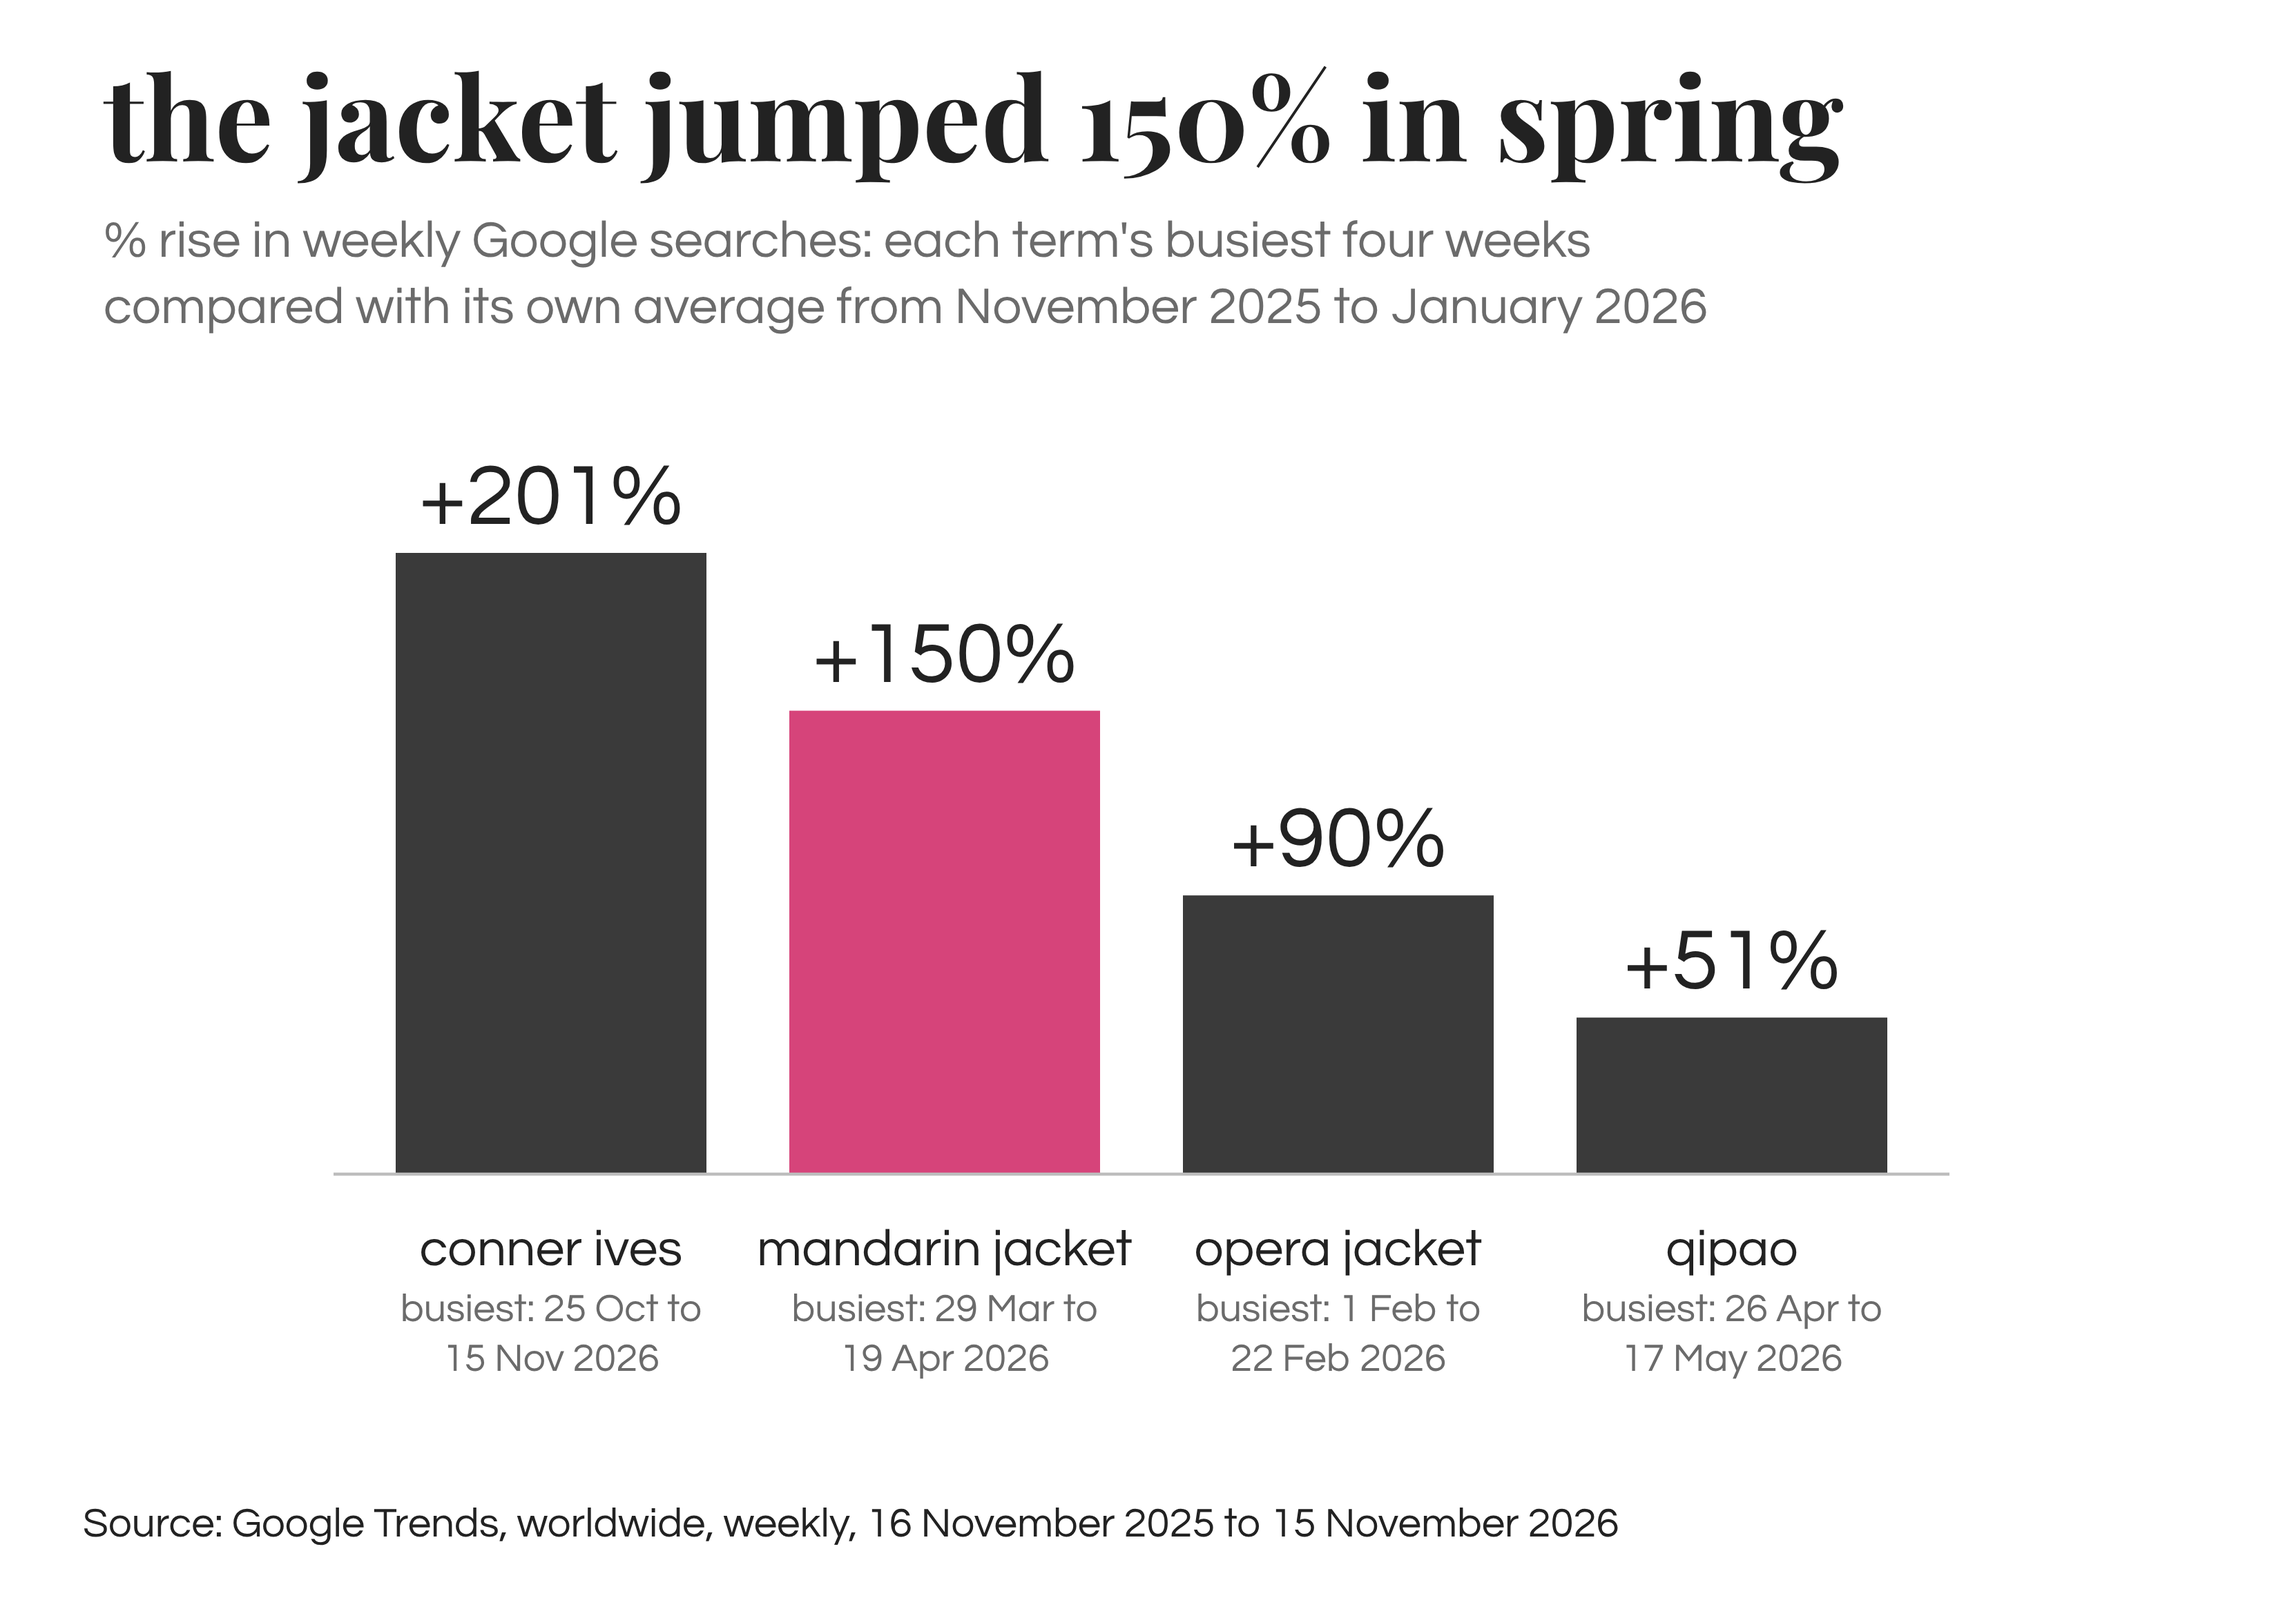
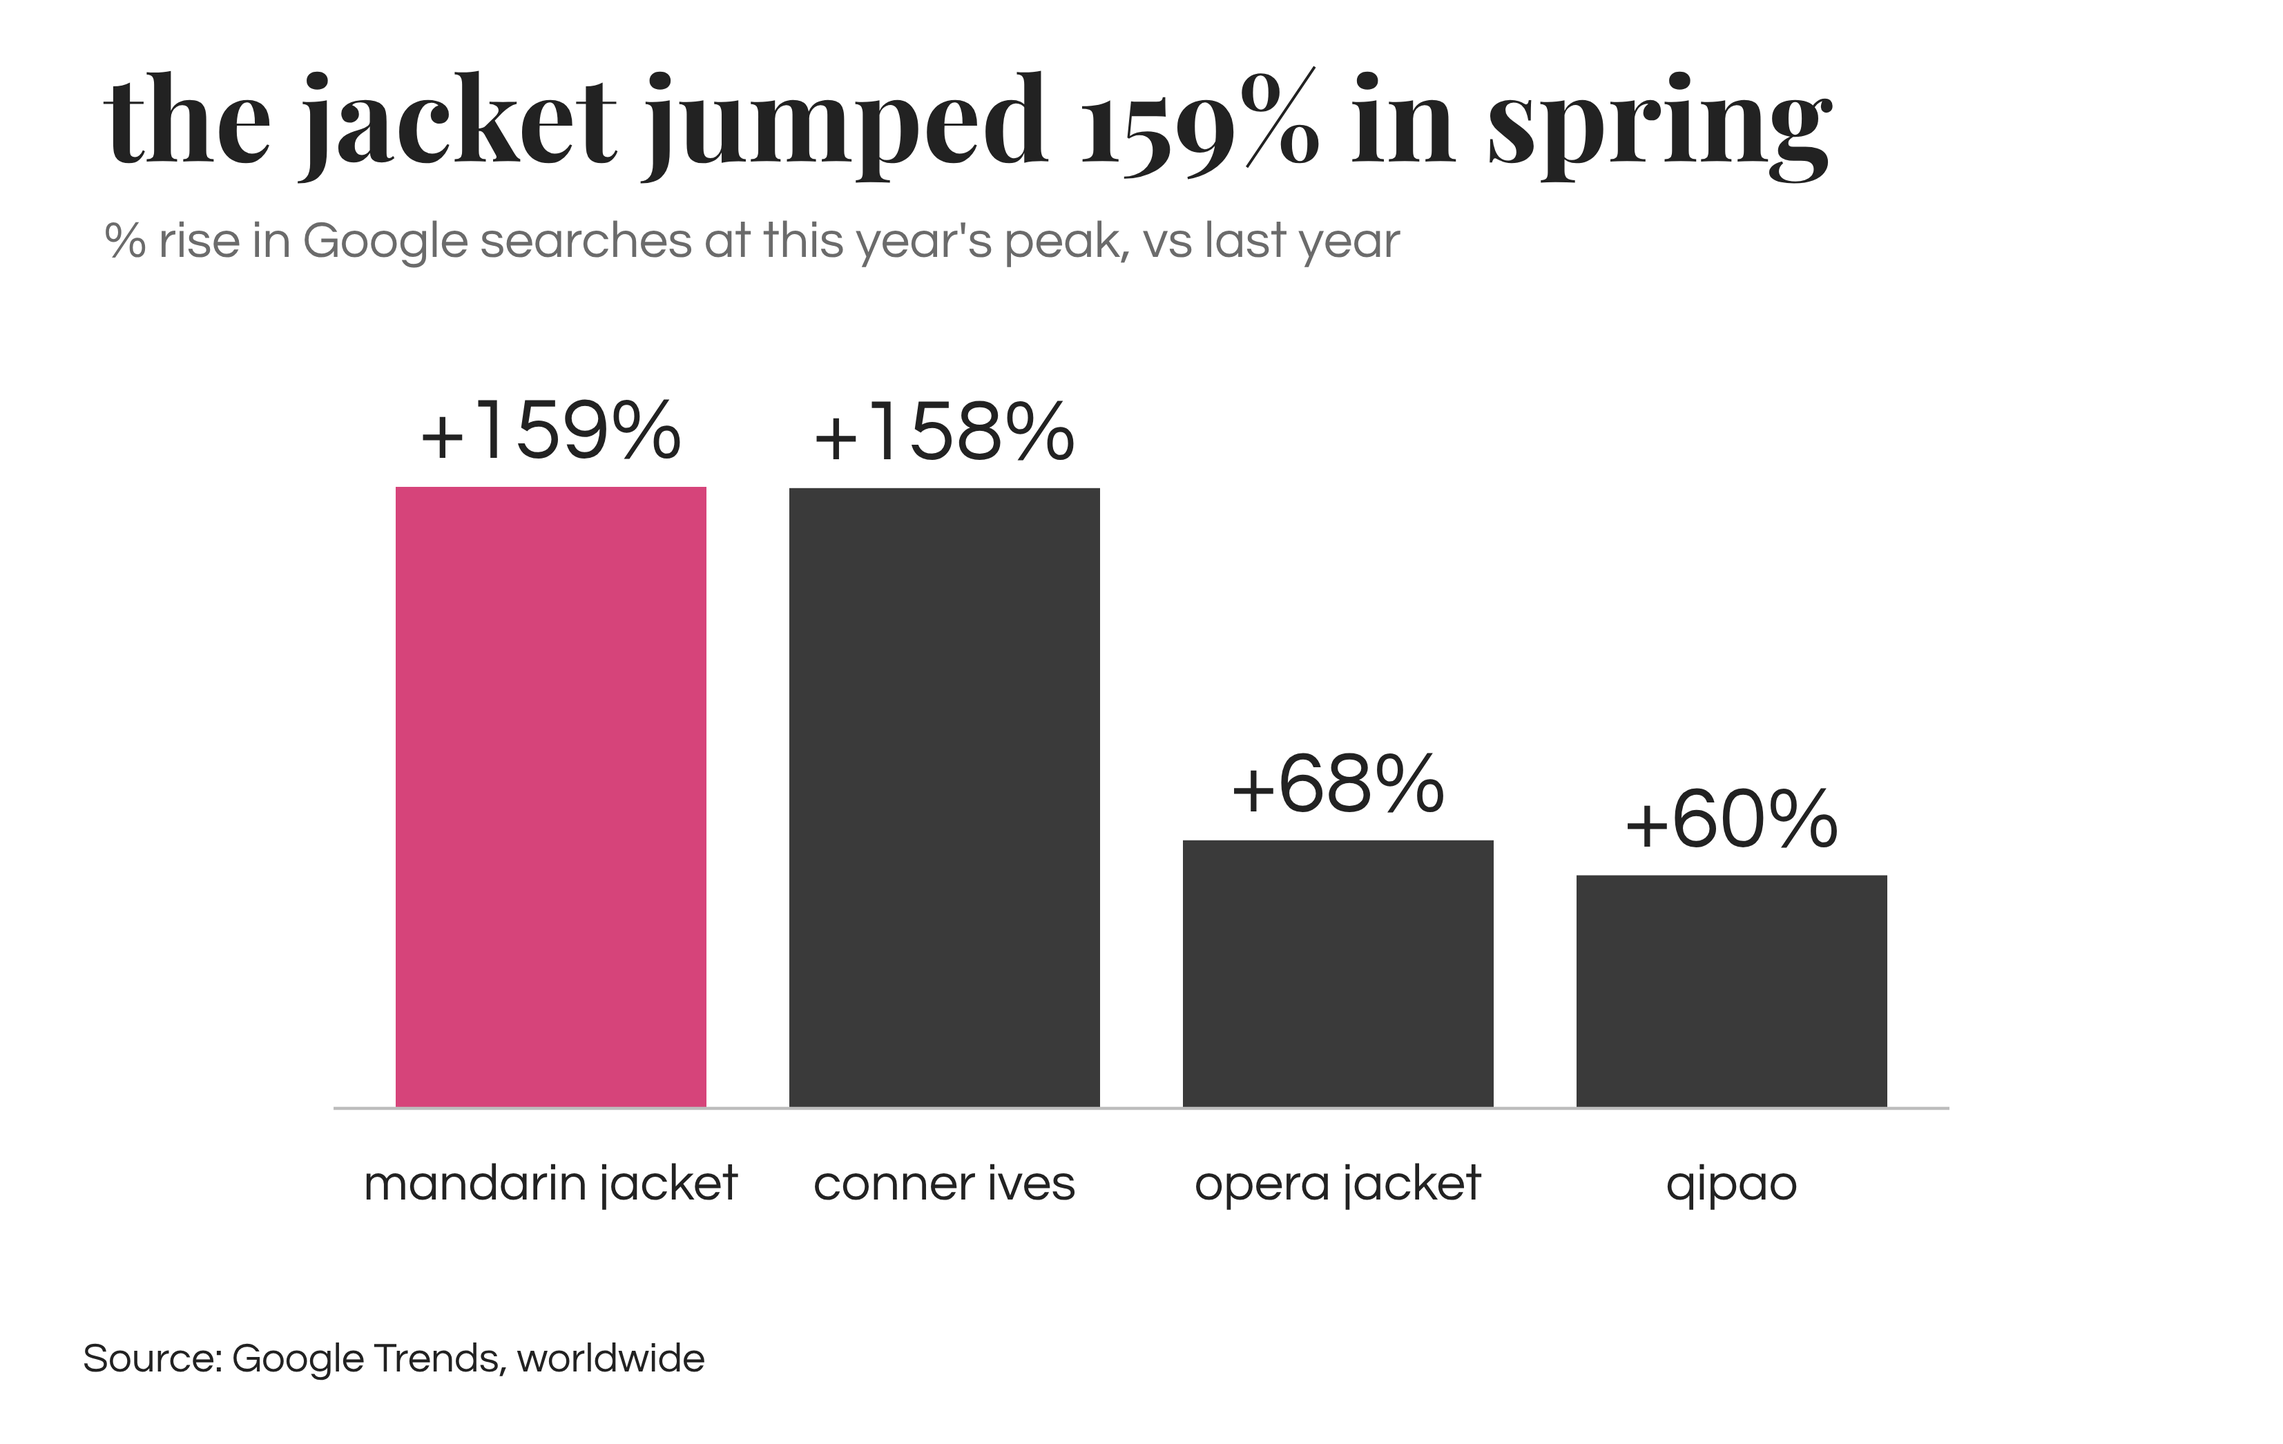
Simplify search bar charts and compare against last year
Claude-Session: https://claude.ai/code/session_01N7aeZbadov81bhy2nkWngq

diff --git a/drafts/chinese-jacket-charts/build_charts.py b/drafts/chinese-jacket-charts/build_charts.py
@@ -16,7 +16,7 @@ PINK, DARK, INK, MUTED = '#D6447A', '#3A3A3A', '#222222', '#6B6B6B'
 SERIF = "'Playfair Display', Georgia, serif"
 SANS = "'Century Gothic', 'Questrial', 'Avenir', sans-serif"
 FONTS = '<link href="https://fonts.googleapis.com/css2?family=Playfair+Display:wght@700&family=Questrial&display=swap" rel="stylesheet">'
-SRC = 'Source: Google Trends, worldwide, weekly, 16 November 2025 to 15 November 2026'
+SRC = 'Source: Google Trends, worldwide'
 
 def load(n):
     r = list(csv.reader(open(os.path.join(HERE, "data", n + ".csv"))))
@@ -29,11 +29,11 @@ def wrap(label, n=14):
         else: cur = (cur + ' ' + t).strip()
     lines.append(cur); return lines
 
-def bar_chart(name, title, subtitle, items, highlight=0, sub=None):
-    """items: [(label, value)], value may be negative. subtitle: list of lines (the unit, in plain words)."""
+def bar_chart(name, title, subtitle, items, highlight=0):
+    """items: [(label, value)], value may be negative. subtitle: one plain line saying what the % measures."""
     n = len(items); fmt = lambda v: f'{round(v):+d}%'
-    W = max(1000, 100 + n * 150, 110 + len(title) * 31, 110 + max(len(l) for l in subtitle) * 13)
-    top = 175 + (len(subtitle) - 1) * 32; plot_h, left, right = 360, 50, 50
+    W = max(1000, 100 + n * 150, 110 + len(title) * 31, 110 + len(subtitle) * 13)
+    top, plot_h, left, right = 175, 360, 50, 50
     slot = min((W - left - right) / n, 190); x0 = (W - slot * n) / 2; bw = min(150, slot * 0.84)
     vmax = max(0, max(v for _, v in items)); vmin = min(0, min(v for _, v in items))
     pos_room = 60 if vmax > 0 else 0; neg_room = 55 if vmin < 0 else 0
@@ -41,12 +41,10 @@ def bar_chart(name, title, subtitle, items, highlight=0, sub=None):
     base = top + pos_room + vmax * scale; bottom = top + plot_h
     wn = max(8, int(slot / 12.5)); vs = min(42, round(slot * 0.34))
     label_lines = max(len(wrap(l, wn)) for l, _ in items)
-    sub_lines = max(len(wrap(s, wn + 4)) for s in sub) if sub else 0
-    h = bottom + 46 + label_lines * 31 + sub_lines * 24 + 80
+    h = bottom + 46 + label_lines * 31 + 80
     p = [f'<svg xmlns="http://www.w3.org/2000/svg" viewBox="0 0 {W} {h}" width="{W}" height="{h}">', f'<rect width="{W}" height="{h}" fill="#FFFFFF"/>',
-         f'<text x="{left}" y="78" font-family="{SERIF}" font-weight="700" font-size="56" fill="{INK}">{html.escape(title)}</text>']
-    for j, l in enumerate(subtitle):
-        p.append(f'<text x="{left}" y="{124 + j * 32}" font-family="{SANS}" font-size="25" fill="{MUTED}">{html.escape(l)}</text>')
+         f'<text x="{left}" y="78" font-family="{SERIF}" font-weight="700" font-size="56" fill="{INK}">{html.escape(title)}</text>',
+         f'<text x="{left}" y="124" font-family="{SANS}" font-size="25" fill="{MUTED}">{html.escape(subtitle)}</text>']
     for i, (lab, v) in enumerate(items):
         cx = x0 + slot * (i + 0.5); bh = abs(v) * scale; col = PINK if i == highlight else DARK
         y = base - bh if v >= 0 else base
@@ -55,41 +53,34 @@ def bar_chart(name, title, subtitle, items, highlight=0, sub=None):
         p.append(f'<text x="{cx:.1f}" y="{vy:.1f}" text-anchor="middle" font-family="{SANS}" font-size="{vs}" fill="{INK}">{fmt(v)}</text>')
         for j, line in enumerate(wrap(lab, wn)):
             p.append(f'<text x="{cx:.1f}" y="{bottom+44+j*31}" text-anchor="middle" font-family="{SANS}" font-size="25" fill="{INK}">{html.escape(line)}</text>')
-        if sub:
-            for k, line in enumerate(wrap(sub[i], wn + 4)):
-                p.append(f'<text x="{cx:.1f}" y="{bottom+44+label_lines*31+k*24-4}" text-anchor="middle" font-family="{SANS}" font-size="19" fill="{MUTED}">{html.escape(line)}</text>')
     p.append(f'<line x1="{x0-10:.1f}" y1="{base:.1f}" x2="{x0+slot*n+10:.1f}" y2="{base:.1f}" stroke="#BDBDBD" stroke-width="1.5"/>')
     p.append(f'<text x="{left-10}" y="{h-30}" font-family="{SANS}" font-size="20" fill="{INK}">{html.escape(SRC)}</text></svg>')
     return name, "\n".join(p)
 
-def span(rows, i):
-    f = lambda d: datetime.datetime.strptime(d, "%Y-%m-%d")
-    a, b = f(rows[i][0]), f(rows[i + 3][0])
-    return f'{a.day} {a.strftime("%b")} to {b.day} {b.strftime("%b %Y")}'
-
+# How the percentages are built (kept off the charts, stated once in the article's methodology):
+#   late 2025 = average of the weeks from 16 Nov to 28 Dec 2025 (the part of the export that falls in 2025)
+#   peak      = each term's busiest four weeks in a row in 2026
+#   now       = the latest four weeks, 25 Oct to 15 Nov 2026
 TERMS = [("mandarin jacket", "mandarin_jacket"), ("opera jacket", "opera_jacket"), ("qipao", "qipao"), ("conner ives", "conner_ives"), ("chinamaxxing", "chinamaxxing")]
 S = {}
 for label, f in TERMS:
     rows = load(f); v = [x for _, x in rows]
-    winter = [x for d, x in rows if d < "2026-02-01"]            # Nov 2025 to Jan 2026
-    bi = max(range(len(v) - 3), key=lambda i: sum(v[i:i + 4]))    # busiest four weeks in a row
-    S[label] = dict(winter=sum(winter) / len(winter), best=sum(v[bi:bi + 4]) / 4, best_span=span(rows, bi), last=sum(v[-4:]) / 4)
+    y25 = [x for d, x in rows if d < "2026-01-01"]
+    bi = max(range(len(v) - 3), key=lambda i: sum(v[i:i + 4]))
+    S[label] = dict(y25=sum(y25) / len(y25), best=sum(v[bi:bi + 4]) / 4, last=sum(v[-4:]) / 4)
 pct = lambda a, b: (a / b - 1) * 100
-jump = sorted([(k, pct(s["best"], s["winter"])) for k, s in S.items() if s["winter"] > 0], key=lambda t: -t[1])
+jump = sorted([(k, pct(s["best"], s["y25"])) for k, s in S.items() if s["y25"] > 0], key=lambda t: -t[1])
 fall = sorted([(k, pct(s["last"], s["best"])) for k, s in S.items() if s["last"] < s["best"]], key=lambda t: t[1])
-now = sorted([(k, pct(s["last"], s["winter"])) for k, s in S.items() if s["winter"] > 0], key=lambda t: -t[1])
+now = sorted([(k, pct(s["last"], s["y25"])) for k, s in S.items() if s["y25"] > 0], key=lambda t: -t[1])
 for nm, d in (("jump", jump), ("fall", fall), ("now", now)): print(nm, [(k, round(x)) for k, x in d])
-idx = lambda d, k: [a for a, _ in d].index(k)
+idx = lambda d, k: [a for a, _ in d].index(k); val = lambda d, k: round(dict(d)[k])
 charts = [
- bar_chart("01-search-jump", "the jacket jumped 150% in spring",
-           ["% rise in weekly Google searches: each term's busiest four weeks", "compared with its own average from November 2025 to January 2026"],
-           jump, highlight=idx(jump, "mandarin jacket"), sub=["busiest: " + S[k]["best_span"] for k, _ in jump]),
- bar_chart("02-search-since-peak", "the meme has lost 85% of its searches",
-           ["% fall in weekly Google searches: the latest four weeks (25 Oct to 15 Nov 2026)", "compared with each term's own busiest four weeks"],
-           fall, highlight=idx(fall, "chinamaxxing"), sub=["busiest: " + S[k]["best_span"] for k, _ in fall]),
- bar_chart("03-search-now", "only conner ives is above last winter",
-           ["% change in weekly Google searches: the latest four weeks (25 Oct to 15 Nov 2026)", "compared with each term's own average from November 2025 to January 2026"],
-           now, highlight=idx(now, "conner ives")),
+ bar_chart("01-search-jump", f"the jacket jumped {val(jump, 'mandarin jacket')}% in spring",
+           "% rise in Google searches at this year's peak, vs last year", jump, highlight=idx(jump, "mandarin jacket")),
+ bar_chart("02-search-since-peak", f"the meme has lost {-val(fall, 'chinamaxxing')}% of its searches",
+           "% fall in Google searches since this year's peak", fall, highlight=idx(fall, "chinamaxxing")),
+ bar_chart("03-search-now", f"conner ives is up {val(now, 'conner ives')}% on last year",
+           "% change in Google searches, this year vs last year", now, highlight=idx(now, "conner ives")),
 ]
 def page(body, w):
     return (f'<!doctype html><html><head><meta charset="utf-8">{FONTS}<style>body{{margin:0;background:#fff}}'

diff --git a/drafts/asian-inspired-jacket-draft.md b/drafts/asian-inspired-jacket-draft.md
@@ -20,17 +20,17 @@ The year starts with Lunar New Year. Searches for "qipao" and "opera jacket" bot
 
 What is not usual is what happened next, which is Chinamaxxing. That is the TikTok name for adopting Chinese habits as a lifestyle, with people filming themselves wearing house slippers indoors, swapping iced drinks for warm water with goji berries and trying Tai Chi, usually with the catchphrase "You've met me at a very Chinese time in my life". As a search it did not exist until early February, and it went from zero to its peak in two weeks, by 22 February, before losing two thirds of that the week after.
 
-Then the jacket took over. Searches for "mandarin jacket" peaked in the week of 12 April, seven weeks after the meme, and stayed close to that level from late March to mid May, 150% above where they sat in the winter. "Opera jacket" had a second bump in May too, and "qipao" stayed high right through August, so people kept the clothes and dropped the joke.
+Then the jacket took over. Searches for "mandarin jacket" peaked in the week of 12 April, seven weeks after the meme, and stayed close to that level from late March to mid May, 159% above where they sat last year. "Opera jacket" had a second bump in May too, and "qipao" stayed high right through August, so people kept the clothes and dropped the joke.
 
-[CHART: 01-search-jump.png, % rise in weekly Google searches, each term's busiest four weeks vs its own November 2025 to January 2026 average]
+[CHART: 01-search-jump.png, % rise in Google searches at this year's peak, vs last year]
 
 Since then the meme has lost 85% of its searches and the jacket 68%, although jacket searches did pick up again in August and September, right on the shows.
 
-[CHART: 02-search-since-peak.png, % fall in weekly Google searches, the latest four weeks vs each term's own busiest four weeks]
+[CHART: 02-search-since-peak.png, % fall in Google searches since this year's peak]
 
-Today jacket searches sit 19% below last winter. What is rising is the designer end, because searches for Conner Ives jumped in the week of the New York show in September, hit their highest point of the year in late October, and are now 201% above last winter, which is about three times the level.
+Today jacket searches sit 16% below last year. What is rising is the designer end, because searches for Conner Ives jumped in the week of the New York show in September, hit their highest point of the year in late October, and are now 158% above last year.
 
-[CHART: 03-search-now.png, % change in weekly Google searches, the latest four weeks vs each term's own November 2025 to January 2026 average]
+[CHART: 03-search-now.png, % change in Google searches, this year vs last year]
 
 ## THE HISTORY
 
@@ -73,8 +73,7 @@ So is this one more Western fantasy of Asia, or the first time the trend is actu
 
 - Where you first mentioned the frog jacket (link or date).
 - The Conner Ives description comes from your pictures. I have no source for where his fabrics or references come from, so the piece does not say whether they are Chinese or Japanese.
-- Every search percentage compares a term with itself at another time (its busiest four weeks, its latest four weeks, or its November 2025 to January 2026 average). The exports can't say which term is bigger, so the piece never claims that.
-- "Last winter" means November 2025 to January 2026, the first 11 weeks of the exports, so it is not a full year on year comparison.
+- How the search percentages are built, kept off the charts: "last year" is the average of the weeks from 16 November to 28 December 2025, "this year's peak" is each term's busiest four weeks in a row in 2026, and "this year" or "now" is the latest four weeks, 25 October to 15 November 2026. Each term is only ever compared with itself.
 - Chinamaxxing has no rise figure because it had no searches before February 2026.
 - I do not know what caused the Conner Ives search peak in late October.
 - The history, Time, CNN and China Daily facts come from search results, not pages opened first-hand.
